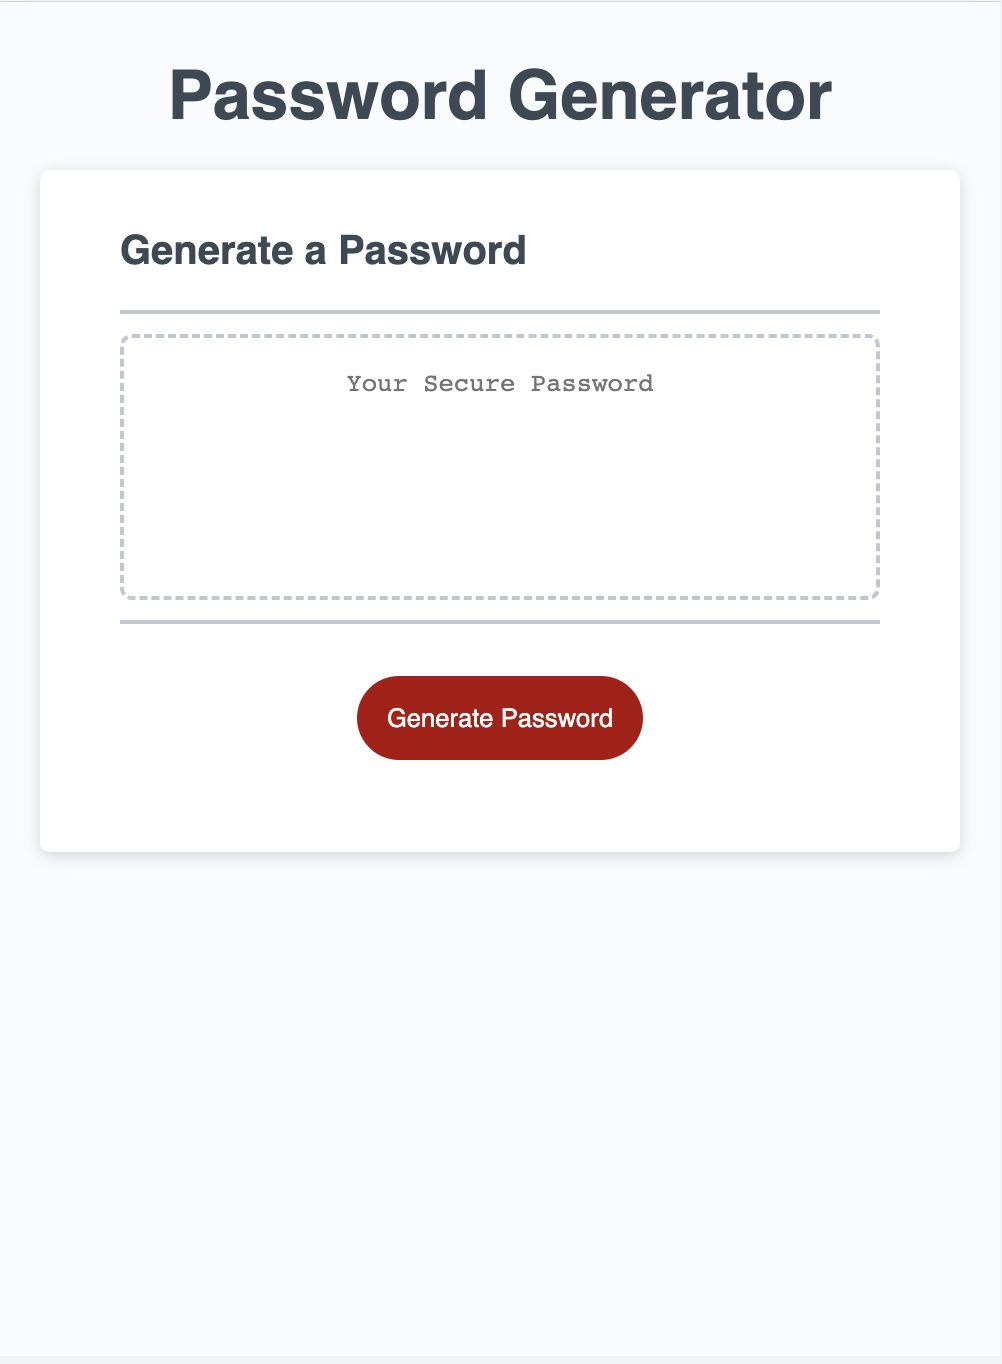
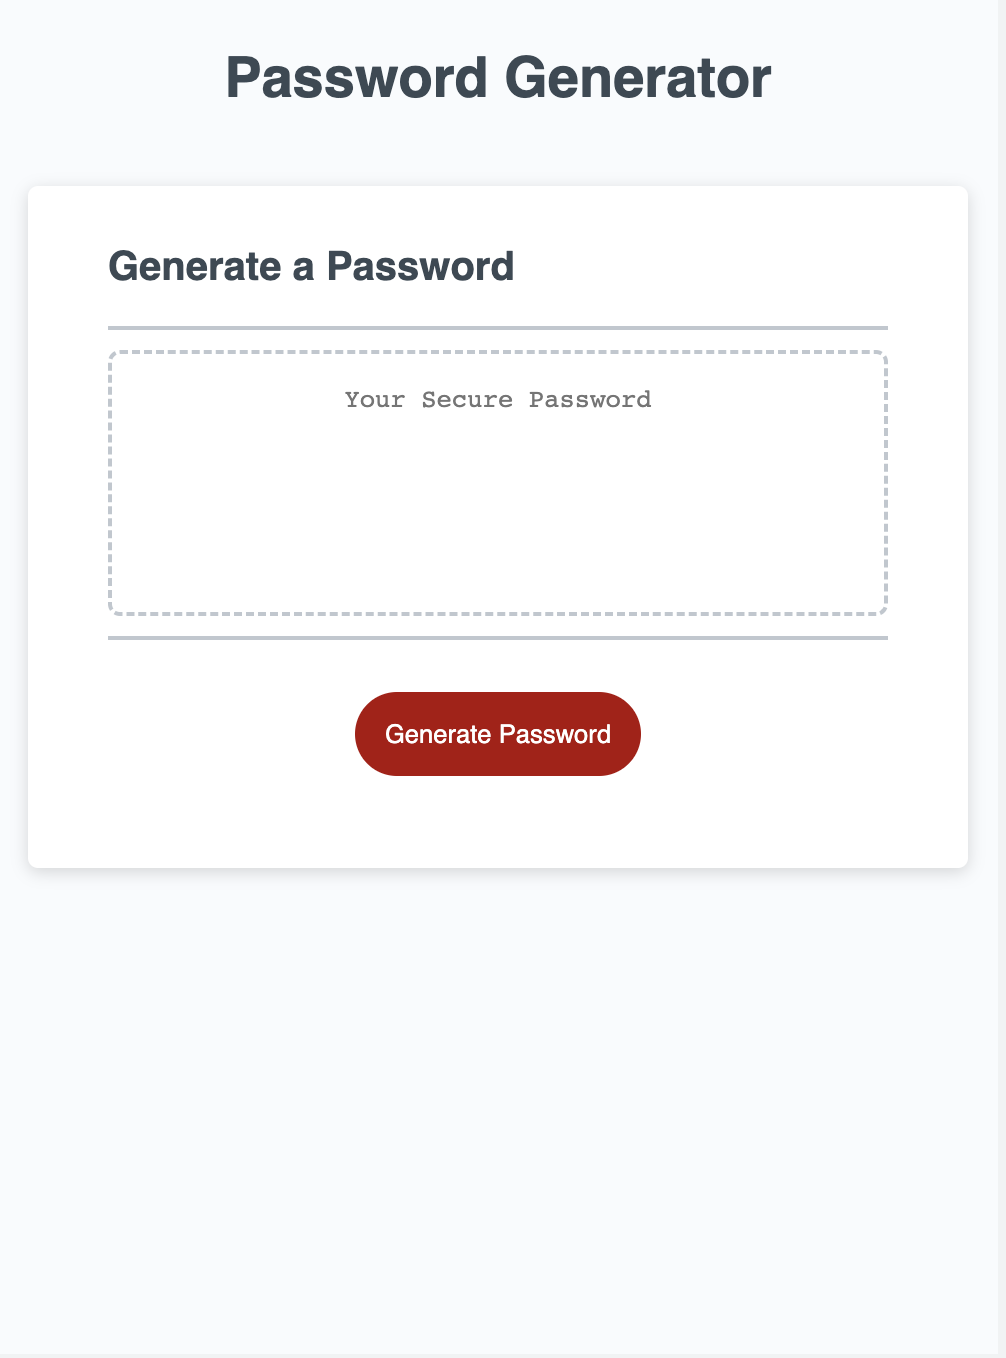
added comments to html, css, and javascript files

Changed region(s): [[0.0928, 0.1546, 0.8972, 0.4639], [0.1547, 0.0309, 0.8353, 0.0928], [0.3403, 0.4948, 0.6497, 0.5876]]

diff --git a/Assets/script.js b/Assets/script.js
@@ -1,12 +1,18 @@
-// Assignment Code
+// assignment Code
 var generateBtn = document.querySelector("#generate");
 
+// define the length range and return a random integer between the range
 function lengthCriteria () {
+  // define empty arrays to store value inputs
   var minInputs = new Array();
   var maxInputs = new Array();
+  // prompt minimum length entry
   function minLength() {
+    // default value is 8
     let min = (prompt("Please enter the minimum length of the password:", "8"));
+    // prevent overwriting new inputs
     minInputs.push(min);
+    // check that the input is valid, otherwise run the function again
     if (min === null) {
       alert("Error: Must input a minimum length.");
       minLength();
@@ -20,11 +26,16 @@ function lengthCriteria () {
       alert("Error: Password can not be more than 128 characters.");
       minLength();
     };
+    // return last value in the array of inputs
     return minInputs[minInputs.length - 1];
   };
+  // prompt maximum length entry
   function maxLength() {
+    // default value is 128
     let max = (prompt("Please enter the maximum length of the password:","128"));
+    // prevent overwriting new inputs
     maxInputs.push(max);
+    // check that the input is valid, otherwise run the function again
     if (max === null) {
       alert("Error: Must input a maximum length.")
       maxLength();
@@ -38,22 +49,31 @@ function lengthCriteria () {
       alert("Error: Maximum length can not be less than minimum length.");
       maxLength();
     };
+    // return last value in the array of inputs
     return maxInputs[maxInputs.length - 1];
   };
+  // run the sub-fuctions minLength() and maxLength()
   var min = minLength();
   var max = maxLength();
+  // return a random integer in the specified range
   min = Math.ceil(min);
   max = Math.floor(max);
   passwordLength = Math.floor(Math.random() * (max - min + 1) + min);
+  // return the random integer
   return passwordLength;
 };
 
+// determine the characters critera
 function charactersCriteria () {
+  // define the four types of characters
   var lowercaseCharacters = ["abcdefghijklmnopqrstuvwxyz"];
   var uppercaseCharacters = ["ABCDEFGHIJKLMNOPQRSTUVWXYZ"];
   var numericCharacters = ["0123456789"];
   var specialCharacters = ["!\"#$%&'()*+,-./:;<=>?@[\\]^_`{|}~"];
+  // define and clear any existing character list
   var charactersList = "";
+  // initialize series of confirmation to determine which characters to include
+  // combine the respective array with the character list if it is accepted
   if (confirm("\nInclude lowercase characters?\n\n'Cancel' for 'No', 'OK' for 'Yes'")) {
     charactersList = charactersList.concat(lowercaseCharacters);
   };
@@ -66,32 +86,42 @@ function charactersCriteria () {
   if (confirm("\nInclude special characters? (i.e: !\"#$%&'()*+,-./:;<=>?@[\\]^_`{|}~)\n\n'Cancel' for 'No', 'OK' for 'Yes'")) {
     charactersList = charactersList.concat(specialCharacters);
   };
+  // return the character list
   return charactersList;
 };
 
-// Write password to the #password input
+// generate a unique password
 function generatePassword() {
+  // clear any existing password
   var password="";
+  // run the functions to determine the length and characters of the password
   var passwordLength = lengthCriteria()
   var charactersList =  charactersCriteria()
+  // check that at least one character type is included
   if (charactersList.length === 0) {
     alert("Error: Must select at lease one type of character.");
     charactersCriteria();
   };
+  // generate a unique series of characters based on the length and characters criteria
   for (var i = 0; i < passwordLength; i++) {
     var randomNumber = Math.floor(Math.random() * charactersList.length);
     password += charactersList.substring(randomNumber, randomNumber +1);
   }
+  // return the unique password used to paste into the output text area
   return password;
 }
 
-// Write password to the #password input
+// write password to the #password input
 function writePassword() {
+  // define the location to output the password
   var passwordText = document.querySelector("#password");
+  // run the function to generate a unique password
   var password = generatePassword();
+  // paste the password in the textarea
   passwordText.value = password;
+  // alert the generated password and the length of the password
   alert("\nPassword: \n" + password + "\n \nLength: " + password.length + " characters")
 }
 
-// Add event listener to generate button
+// add event listener to generate button
 generateBtn.addEventListener("click", writePassword);

diff --git a/Assets/css/style.css b/Assets/css/style.css
@@ -1,4 +1,4 @@
-/* add re-usable variables */
+/* defined variables */
 :root {
   --bkg: #f9fbfd;
   --box: hsl(0, 0%, 100%);
@@ -7,32 +7,33 @@
   --btn: hsl(360, 91%, 36%);
 }
 
+/* page background and default font */
 body {
   font-family: sans-serif;
   background-color: var(--bkg);
 }
 
-/* replace .wrapper with main */
-main {
-  padding-top: 30px;
-  padding-left: 20px;
-  padding-right: 20px;
-}
-
+/* includes the h1 element */
 header {
   text-align: center;
-  padding: 20px;
-  padding-top: 0px;
+  padding: 25px;
   color: var(--txt);
   font-size: 34px;
 }
 
+/* main section of the page */
+main {
+  padding: 15px;
+}
+
+/* Generate a Password subtitle */
 h2 {
   font-size: 28px;
   padding-bottom: 10px;
   text-align: left;
 }
 
+/* card class */
 .card {
   background-color: var(--box);
   border-radius: 5px;
@@ -46,8 +47,7 @@ h2 {
   text-align: center;
 }
 
-/* replaced .card-header with h2 */
-/* replaced h2::after and button::before with output::before, output::after */
+/* decorative line outside the output box area */
 output::before, output::after {
   content: " ";
   display: block;
@@ -58,13 +58,12 @@ output::before, output::after {
   margin-bottom: 10px;
 }
 
-/* replace .card-body with output */
+/* output area */
 output {
   min-height: 100px;
-  user-select: all;
 }
 
-/* replace .btn with button */
+/* button style */
 button {
   border: none;
   background-color: var(--btn);
@@ -80,8 +79,7 @@ button {
   cursor: pointer;
 }
 
-/* remove .float-right */
-
+/* password style inside the output box */
 #password {
   font-family: monospace;
   -webkit-appearance: none;
@@ -105,7 +103,12 @@ button {
   overflow: hidden;
 }
 
+/* responsive layouts */
 @media (max-width: 690px) {
+  header {
+    font-size: 30px;
+  }
+
   h2 {
     font-size: 24px;
   }
@@ -121,6 +124,10 @@ button {
 }
 
 @media (max-width: 500px) {
+  header {
+    font-size: 28px;
+  }
+
   h2 {
     font-size: 20px;
   }

diff --git a/index.html b/index.html
@@ -1,27 +1,27 @@
 <!DOCTYPE html>
 <html lang="en">
 
+  <!-- link local assets and define the title -->
   <head>
     <meta charset="UTF-8" />
     <meta name="viewport" content="width=device-width, initial-scale=1.0" />
     <meta http-equiv="X-UA-Compatible" content="ie=edge" />
     <title>Password Generator</title>
-    <!-- add a reset css file -->
     <link rel="stylesheet" href="./Assets/css/reset.css" />
     <link rel="stylesheet" href="./Assets/css/style.css" />
   </head>
 
   <body>
-    <!-- div to 'main' element, remove 'wrapper' class -->
+    <!-- header including the title of the page -->
+    <header>
+      <h1>Password Generator</h1>
+    </header>
+    <!-- main section of the page -->
     <main>
-      <header>
-        <h1>Password Generator</h1>
-      </header>
-      <!-- replace div with section -->
+      <!-- password generator section -->
       <section class="card">
-        <!-- remove div and class -->
         <h2>Generate a Password</h2>
-        <!-- div to 'output' element, remove 'card-body' class -->
+        <!-- textarea where the generated password will output -->
         <output>
           <textarea
             readonly
@@ -30,12 +30,12 @@
             aria-label="Generated Password"
           ></textarea>
         </output>
-        <!-- remove div and class -->
-        <!-- remove class 'btn' -->
+        <!-- button used to generate the password -->
         <button id="generate" >Generate Password</button>
       </section>
     </main>
 
+    <!-- link the JavaScript file that is used to generate and output the unique password -->
     <script src="./Assets/script.js"></script>
   </body>
   

diff --git a/README.md b/README.md
@@ -22,9 +22,6 @@
 >
 > Include restrictive criterias to prevent invalid inputs.
 >
-> **Note**: Only includes projects completed in this class. 
->Last updated note included in the footer section.
-> Currently do not have any personal projects that are activly deployed on the web.
 ## User Story
 ```
 AS AN employee with access to sensitive data
